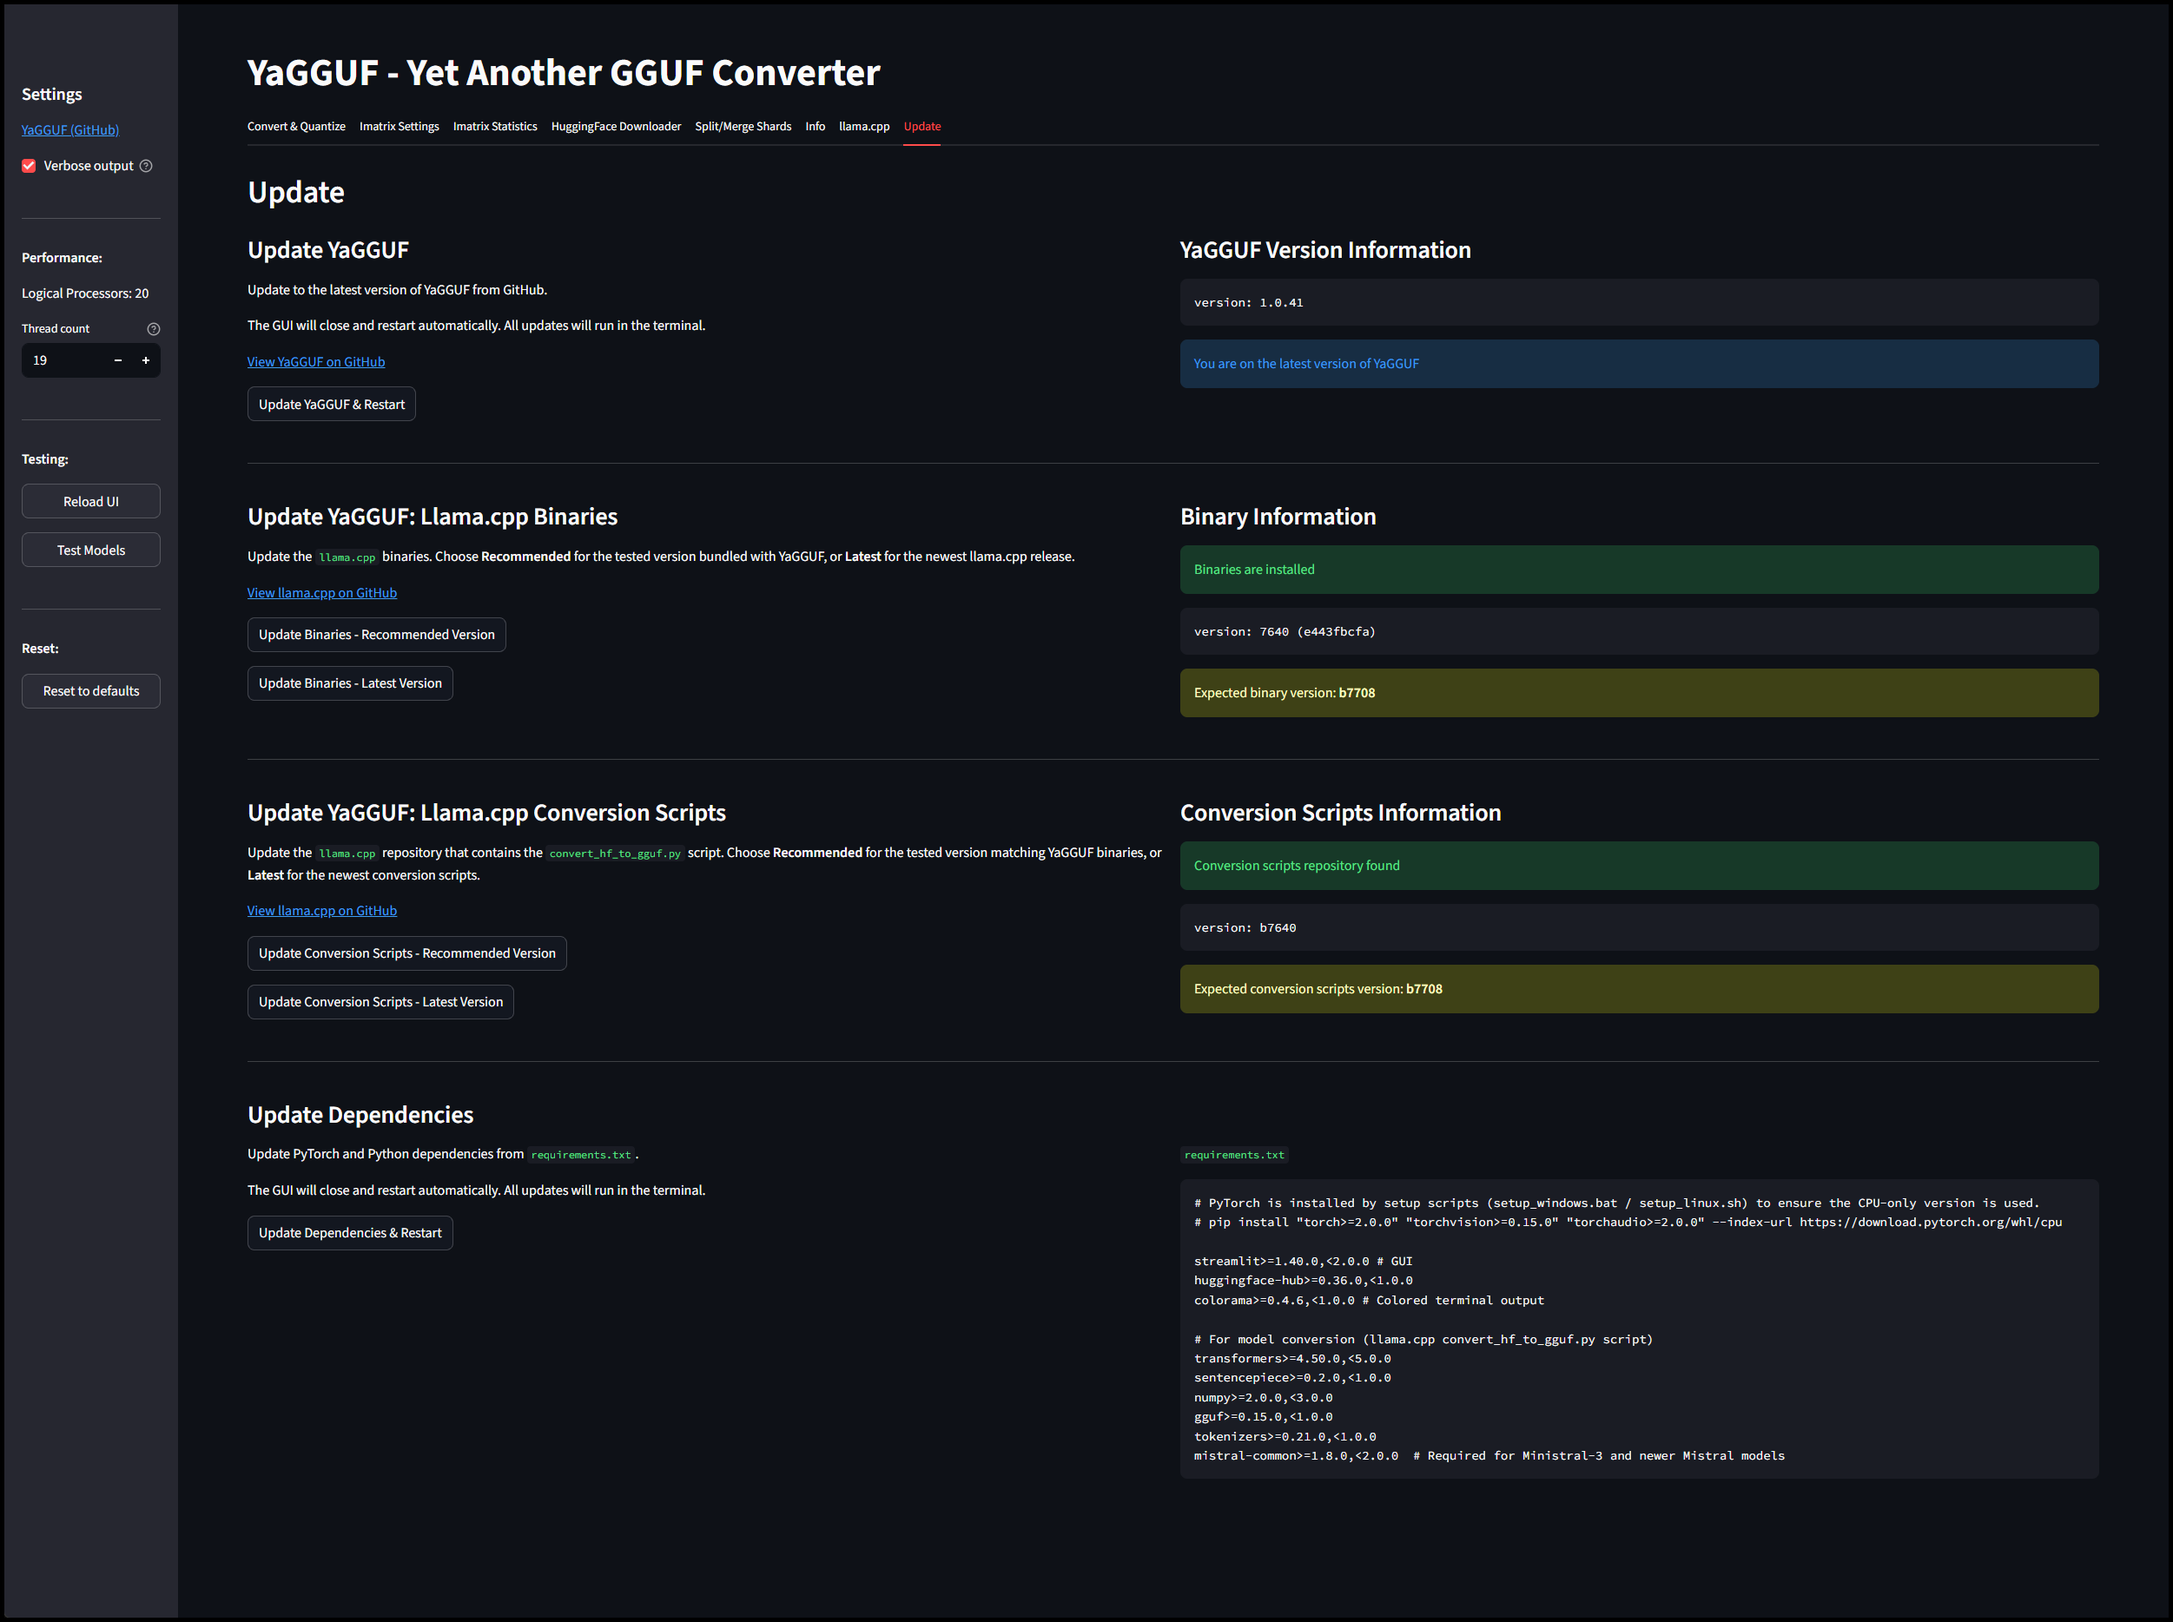
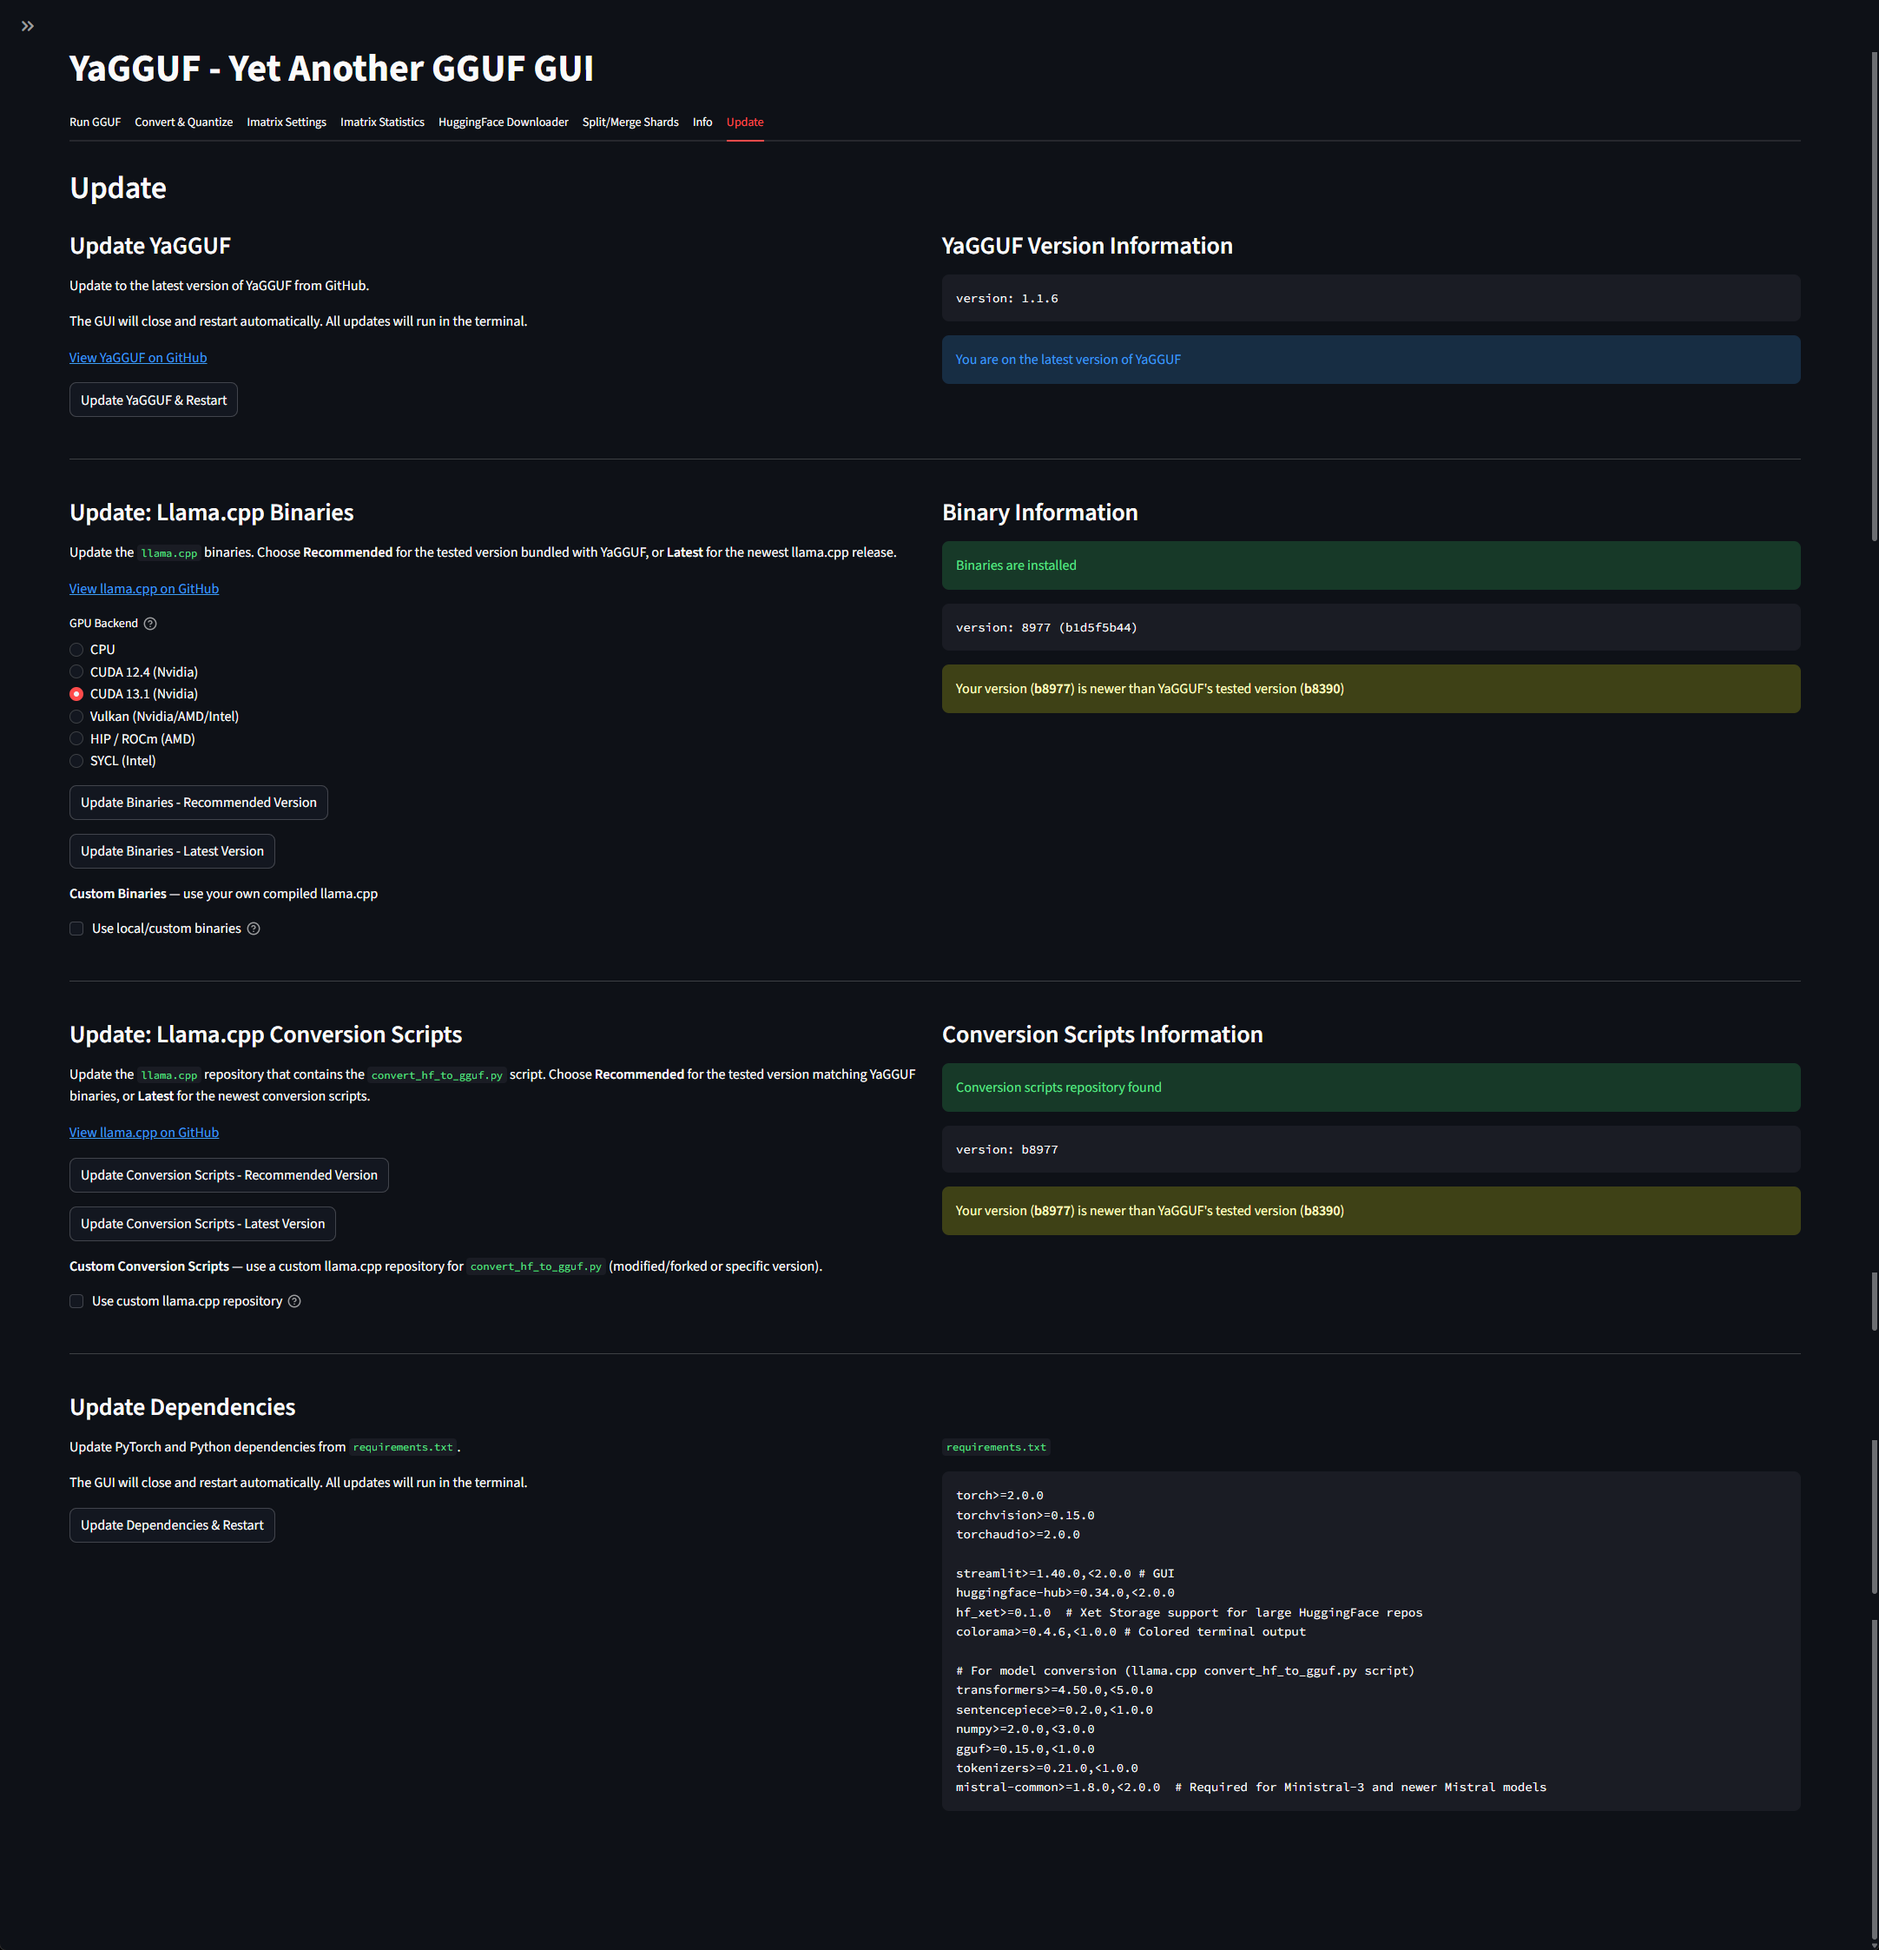
screenshot updates, adjust min -c limit

diff --git a/gguf_converter/gui_tabs/run_gguf.py b/gguf_converter/gui_tabs/run_gguf.py
@@ -830,10 +830,10 @@ def _render_ctx_section(config: Dict[str, Any], current_auto_fit: bool) -> None:
     else:
         ctx_kwargs: Dict[str, Any] = {
             "label": "Context Size (-c)",
-            "min_value": 512,
+            "min_value": 0,
             "max_value": 131072,
             "step": 512,
-            "help": "Context window size in tokens.",
+            "help": "Context window size in tokens. 0 = use the model's native context length from its metadata.",
             "key": "run_ctx_input",
             "on_change": make_config_saver(config, "run_ctx", "run_ctx_input"),
         }

diff --git a/docs/README.md b/docs/README.md
@@ -1,5 +1,11 @@
 # YaGGUF Screenshots
 
+## Run GGUF
+![Run GGUF](convert_and_quantize.png)
+
+## Run GGUF Expanded Options
+![Run GGUF Expanded Options](convert_and_quantize.png)
+
 ## Convert & Quantize
 ![Convert and Quantize](convert_and_quantize.png)
 
@@ -23,9 +29,6 @@
 
 ## Resplit Shards
 ![Resplit](resplit.png)
-
-## VRAM Calc
-![VRAM Calc](vram_calc.png)
 
 ## llama.cpp Custom Installation
 ![llama.cpp Custom](llama_cpp_custom.png)
